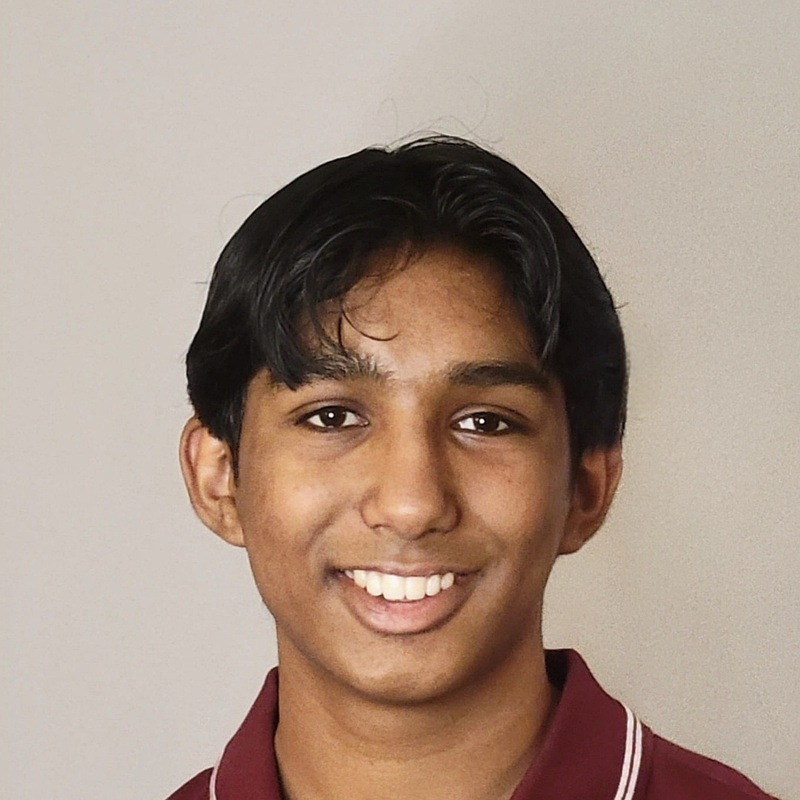
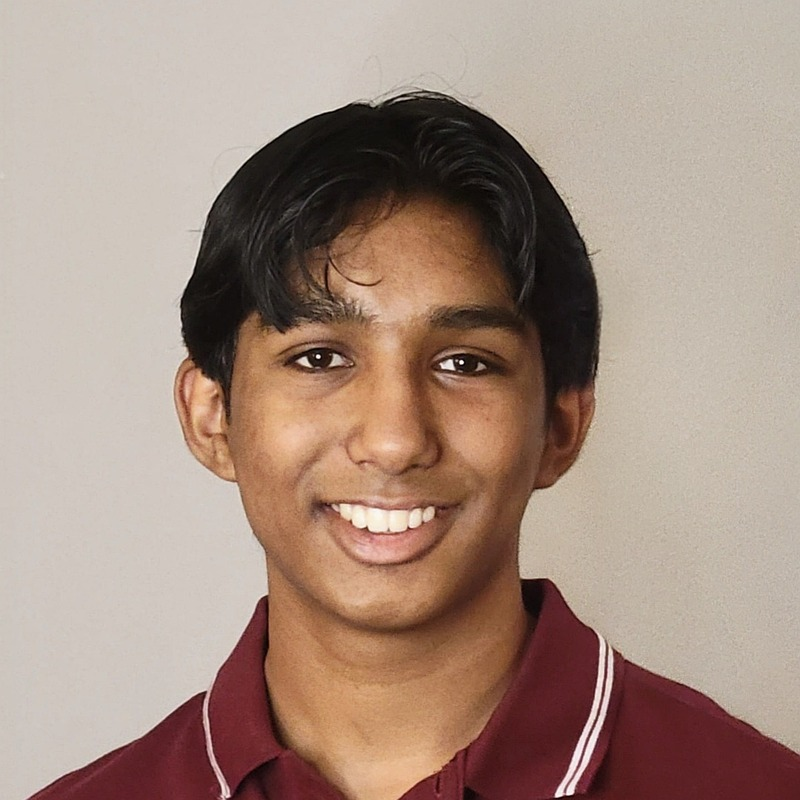
Recrop all staff photos with uniform face-centering
Reprocess every headshot through the same OpenCV face-detection crop for
consistent framing across the roster. Anaya's only photo is a distant mid-song
shot, so pin her crop via an OVERRIDE in sync.py.

diff --git a/scripts/staff-sync/sync.py b/scripts/staff-sync/sync.py
@@ -80,7 +80,11 @@ ALIASES = {
 
 # Optional manual crop overrides for edge cases the face detector handles poorly.
 # key -> (face_center_x_frac, face_center_y_frac, square_side_frac_of_min_dim)
-OVERRIDES = {}
+OVERRIDES = {
+    # Anaya's only photo is a distant, mid-song shot with a mic stand across her
+    # face — face-detection frames it badly, so pin the crop manually.
+    "anaya": (0.42, 0.18, 0.36),
+}
 
 
 def log(*a):
